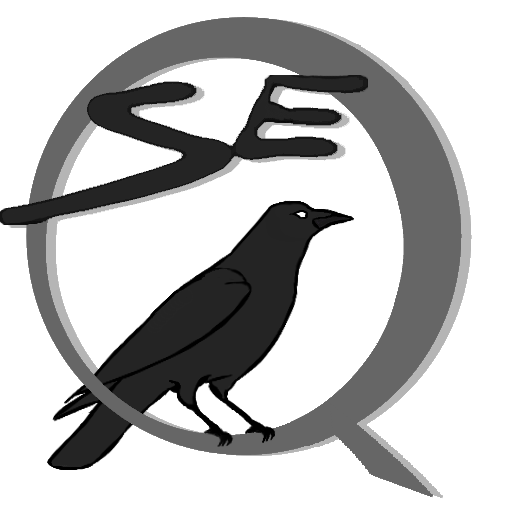
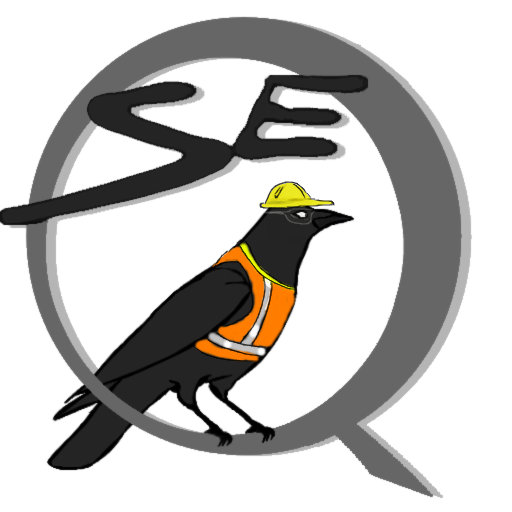
devcrow is back

Changed region(s): [[0.375, 0.4688, 0.5938, 0.7188], [0.5, 0.3438, 0.6562, 0.4375]]

diff --git a/README.md b/README.md
@@ -7,12 +7,11 @@ These tools enable users to rapidly modify several structures simultaneously, pr
 More information about SEQCROW features can be found on the [GitHub wiki](https://github.com/QChASM/SEQCROW/wiki).
 
 ## Installation
-1. Install from the ChimeraX Toolshed
-   * Tools &rarr; More Tools...
-   * find and open the SEQCROW page
-   * click 'Install'
-2. Restart ChimeraX to get the new selectors under 'Select &rarr; Chemistry' and SEQCROW settings/preferences 
-3. If you have a personal AaronTools library already, you can specify the path to it in the SEQCROW settings. Open ChimeraX and go Favorites &rarr; Settings... &rarr; SEQCROW. You will have to restart ChimeraX if you change this setting. 
+1. Download <a href="https://github.com/QChASM/SEQCROW/raw/dev/dist/SEQCROW-0.26b0-py3-none-any.whl">SEQCROW-0.26b0-py3-none-any.whl</a>
+2. Open ChimeraX
+3. On the ChimeraX command line, enter `toolshed install /path/to/SEQCROW-0.26b0-py3-none-any.whl`
+4. Restart ChimeraX
+5. If you have a personal AaronTools library already, you can specify the path to it in the SEQCROW settings. Open ChimeraX and go Favorites &rarr; Settings... &rarr; SEQCROW. You will have to restart ChimeraX if you change this setting. 
 
 
 ## Citation
@@ -30,17 +29,7 @@ This is a plug-in for ChimeraX.
 The Chimera version of SEQCROW (ChimAARON) can be found on the [Chimera branch](https://github.com/QChASM/ChimAARON/tree/Chimera).
 
 ### ChimeraX Stable
-you are here
+The most stable version can be found on the [master branch](https://github.com/QChASM/ChimAARON/tree/master) or the [ChimeraX toolshed](https://cxtoolshed.rbvi.ucsf.edu/apps/seqcrow)
 
 ### ChimeraX Daily
-For the latest features and bugs, check out the [dev branch](https://github.com/QChASM/ChimAARON/tree/dev)
-
-## Citation
-If you use SEQCROW, please cite the following:
-
-1. "QChASM: Quantum Chemistry Automation and Structure Manipulation" <a href="http://dx.doi.org/10.1002/wcms.1510" target="_blank"><i>WIREs Comp. Mol. Sci.</i> (in press, 2021)</a>
-
-2. SEQCROW, Anthony J. Schaefer and Steven E. Wheeler, University of Georgia (2020).
-
-## Contact
-If you have any questions, feel free to contact us at qchasm@uga.edu
+You are here
